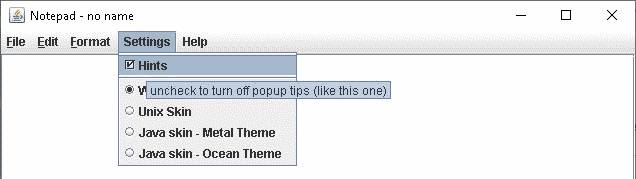
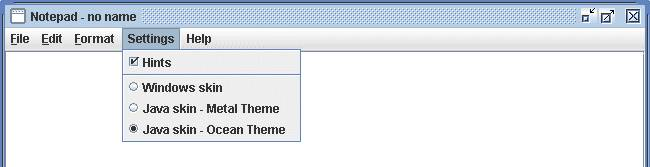
v05.1

diff --git a/src/com/danielk/jnotepad/gui/NotepadLookAndFeelManager.java b/src/com/danielk/jnotepad/gui/NotepadLookAndFeelManager.java
@@ -9,7 +9,6 @@ class NotepadLookAndFeelManager {
 
     public enum LookAndFeelTypes {
         WINDOWS,
-        UNIX,
         JAVAMETAL,
         JAVAOCEAN
     }
@@ -17,52 +16,35 @@ class NotepadLookAndFeelManager {
     static void setLookAndFeel(LookAndFeelTypes lookAndFeelType, NotepadWindow notepadWindow) {
 
         try {
+            notepadWindow.dispose();
+
             switch (lookAndFeelType) {
-                case WINDOWS:       //SWITCH TO WINDOWS WORKS FINE
-                    notepadWindow.dispose();
+                case WINDOWS: {
                     UIManager.setLookAndFeel("com.sun.java.swing.plaf.windows.WindowsLookAndFeel");
-                    SwingUtilities.updateComponentTreeUI(notepadWindow.getRootPane());
                     notepadWindow.setUndecorated(false);
-                    notepadWindow.setVisible(true);
-                    break;
-
-                case UNIX:      //SWITCH DOESN't WORK - TITLE BAR FROM DIFFERENT LAF
-                    notepadWindow.dispose();
-                    UIManager.setLookAndFeel("com.sun.java.swing.plaf.motif.MotifLookAndFeel");
-                    notepadWindow.getRootPane().setWindowDecorationStyle(JRootPane.FRAME);
-                    SwingUtilities.updateComponentTreeUI(notepadWindow.getRootPane());
-                    JFrame.setDefaultLookAndFeelDecorated(true);
-
-                    notepadWindow.setUndecorated(true);
-                    notepadWindow.setVisible(true);
-                    break;
-
-                case JAVAMETAL: { //WORKS FINE
-
-                    notepadWindow.dispose();
-                    MetalLookAndFeel.setCurrentTheme(new DefaultMetalTheme());
-                    UIManager.setLookAndFeel(new MetalLookAndFeel());
-                    notepadWindow.getRootPane().setWindowDecorationStyle(JRootPane.FRAME);
-                    SwingUtilities.updateComponentTreeUI(notepadWindow.getRootPane());
-                    notepadWindow.setUndecorated(true);
-                    notepadWindow.setVisible(true);
                 }
                 break;
 
-                case JAVAOCEAN: {       //WORKS FINE
+                case JAVAMETAL: {
+                    MetalLookAndFeel.setCurrentTheme(new DefaultMetalTheme());
+                    UIManager.setLookAndFeel(new MetalLookAndFeel());
+                    notepadWindow.getRootPane().setWindowDecorationStyle(JRootPane.FRAME);
+                    notepadWindow.setUndecorated(true);
+                }
+                break;
 
-                    notepadWindow.dispose();
+                case JAVAOCEAN: {
+
                     MetalLookAndFeel.setCurrentTheme(new OceanTheme());
                     UIManager.setLookAndFeel(new MetalLookAndFeel());
                     notepadWindow.getRootPane().setWindowDecorationStyle(JRootPane.FRAME);
-                    SwingUtilities.updateComponentTreeUI(notepadWindow.getRootPane());
                     notepadWindow.setUndecorated(true);
-                    notepadWindow.setVisible(true);
                 }
                 break;
             }
 
-            //SwingUtilities.updateComponentTreeUI(notepadWindow);
+            SwingUtilities.updateComponentTreeUI(notepadWindow);
+            notepadWindow.setVisible(true);
 
         } catch (Exception e) {
             System.err.println(e.getMessage());

diff --git a/src/com/danielk/jnotepad/gui/NotepadMenu.java b/src/com/danielk/jnotepad/gui/NotepadMenu.java
@@ -140,17 +140,10 @@ public class NotepadMenu {
                         .withActionListener(ae->ToolTips.showHideTooltips())
                         .build())
                 .withSeparator()
-                .withItem(MenuItemBuilder.radioButton("Windows skin", true)
+                .withItem(MenuItemBuilder.radioButton("Windows skin", false)
                         .withItemListener(ie -> {
                             if (ie.getStateChange() == ItemEvent.SELECTED)
                                 NotepadLookAndFeelManager.setLookAndFeel(NotepadLookAndFeelManager.LookAndFeelTypes.WINDOWS, notepadWindow);
-                        })
-                        .addToGroup(bg)
-                        .build())
-                .withItem(MenuItemBuilder.radioButton("Unix Skin", false)
-                        .withItemListener(ie -> {
-                            if (ie.getStateChange() == ItemEvent.SELECTED)
-                                NotepadLookAndFeelManager.setLookAndFeel(NotepadLookAndFeelManager.LookAndFeelTypes.UNIX, notepadWindow);
                         })
                         .addToGroup(bg)
                         .build())
@@ -161,7 +154,7 @@ public class NotepadMenu {
                         })
                         .addToGroup(bg)
                         .build())
-                .withItem(MenuItemBuilder.radioButton("Java skin - Ocean Theme", false)
+                .withItem(MenuItemBuilder.radioButton("Java skin - Ocean Theme", true)
                         .withItemListener(ie -> {
                             if (ie.getStateChange() == ItemEvent.SELECTED)
                                 NotepadLookAndFeelManager.setLookAndFeel(NotepadLookAndFeelManager.LookAndFeelTypes.JAVAOCEAN, notepadWindow);
@@ -179,7 +172,7 @@ public class NotepadMenu {
                         .build())
                 .withItem(MenuItemBuilder.menuItem("About...")
                         .withActionListener(ae ->
-                                JOptionPane.showMessageDialog(notepadWindow, "Notepad Java Swing v.0.5", "About program...",
+                                JOptionPane.showMessageDialog(notepadWindow, "Notepad Java Swing v.0.5.1", "About program...",
                                         JOptionPane.INFORMATION_MESSAGE))
                         .build())
                 .build();

diff --git a/src/com/danielk/jnotepad/gui/NotepadWindow.java b/src/com/danielk/jnotepad/gui/NotepadWindow.java
@@ -121,6 +121,7 @@ public class NotepadWindow extends JFrame {
         radioPanel.add(radioIsoCoding);
         radioPanel.setVisible(false);
 
+        NotepadLookAndFeelManager.setLookAndFeel(NotepadLookAndFeelManager.LookAndFeelTypes.JAVAOCEAN, this);
         getContentPane().add(scroll);
         getContentPane().add(radioPanel, "South");
         setVisible(true);

diff --git a/test/com/danielk/jnotepad/gui/ReplaceDialogTest.java b/test/com/danielk/jnotepad/gui/ReplaceDialogTest.java
@@ -1,0 +1,19 @@
+package com.danielk.jnotepad.gui;
+
+import org.junit.jupiter.api.AfterEach;
+import org.junit.jupiter.api.BeforeEach;
+
+import static org.junit.jupiter.api.Assertions.*;
+
+class ReplaceDialogTest {
+
+    @BeforeEach
+    void setUp() {
+    }
+
+
+
+    @AfterEach
+    void tearDown() {
+    }
+}

diff --git a/test/com/danielk/jnotepad/gui/FindDialogTest.java b/test/com/danielk/jnotepad/gui/FindDialogTest.java
@@ -1,0 +1,20 @@
+package com.danielk.jnotepad.gui;
+
+import org.junit.jupiter.api.AfterEach;
+import org.junit.jupiter.api.BeforeEach;
+
+import static org.junit.jupiter.api.Assertions.*;
+
+class FindDialogTest {
+
+    @BeforeEach
+    void setUp() {
+    }
+
+
+
+
+    @AfterEach
+    void tearDown() {
+    }
+}

diff --git a/src/Main.java b/src/Main.java
@@ -28,7 +28,5 @@ public class Main {
                 notepadWindow.setDefaultCloseOperation(JFrame.DO_NOTHING_ON_CLOSE);
             }
         });
-
-        //ToolTipManager.sharedInstance().setEnabled(false);
     }
 }

diff --git a/test/MainTest.java b/test/MainTest.java
@@ -2,10 +2,7 @@ import com.danielk.jnotepad.gui.NotepadMenu;
 import org.junit.jupiter.api.BeforeEach;
 import org.junit.jupiter.api.Test;
 
-/*
-Tests to be implemented in next update
 
- */
 
 
 class MainTest {

diff --git a/src/com/danielk/jnotepad/gui/FindDialog.java b/src/com/danielk/jnotepad/gui/FindDialog.java
@@ -161,4 +161,5 @@ class FindDialog extends JDialog {
             }
         }
     }
+
 }

diff --git a/readme.md b/readme.md
@@ -96,7 +96,6 @@ Blue box with text showing when user hovers over selected components - turned on
 Featured in Swing library - posibility to choose between standard Java&Swing skins: 
 
 - Windows skin
-- Unix skin
 - Java skins:
   - Metal skin
   - Ocean skin (default application skin)
@@ -125,6 +124,12 @@ Application has the following warnings implemented:
 
 
 ## History and updates
+
+### Features added to v05.1:
+- Skin change bug corrected - now all available skins shows up as they should
+- Unix Look and Feel removed from skin change feature. The reason is that Unix ("motif") Lok ad Feel will be deprecated from OPen JDK 13:
+https://bugs.openjdk.java.net/browse/JDK-8218637
+
 
 ### Features added to v05:
 - Find feature (Edit menu->Find) with dedicated dialog window
@@ -168,6 +173,5 @@ Application has the following warnings implemented:
 - welcome graphics before any User action taken (?)
 
 ## Known bugs to be fixed asap:
-- unix skin change doesn't show title bar properly, default skin to be corrected (also in doc)
 - while pasting code from IntelliJ to text area - ClassNotFoundException - seems to be IntelliJ bug, should ave no influence on application, please refer to:
 https://intellij-support.jetbrains.com/hc/en-us/community/posts/360002951399-ClassCastException-related-to-IDEA-specific-classes-when-running-outside-of-IntelliJ
